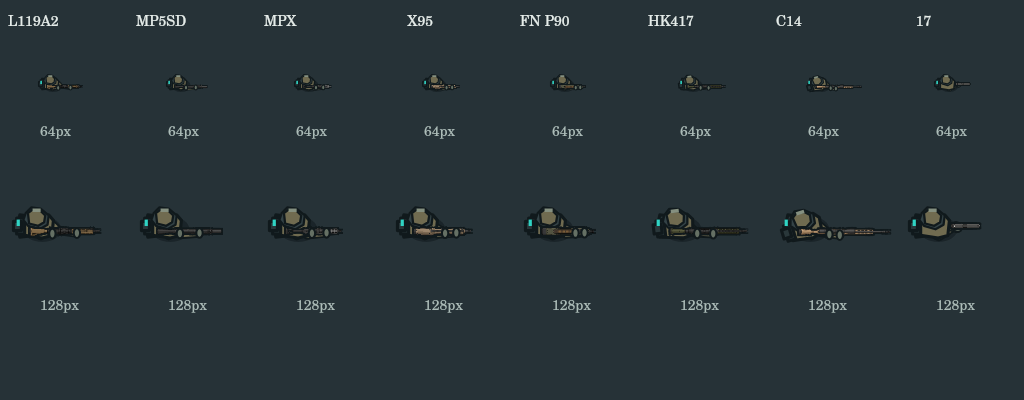
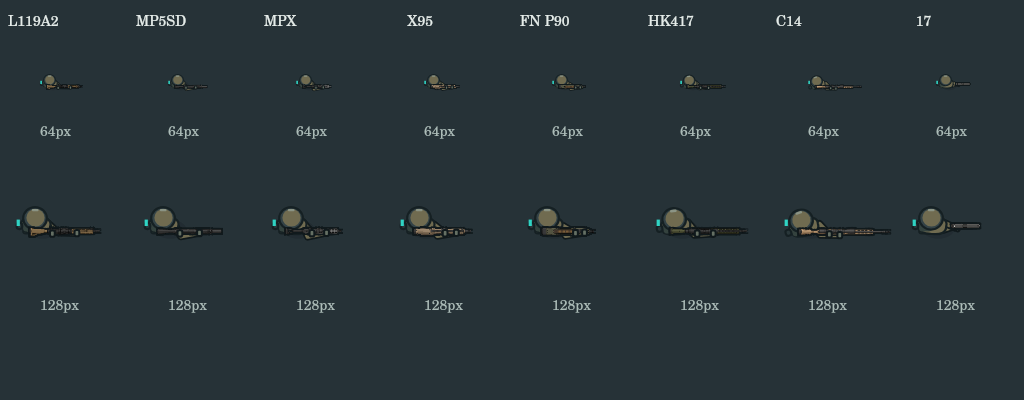
반려된 체형·포복을 재작업하고 중앙 지지 방패 자세 설계

diff --git a/artifacts/draft-order-player-generator/src/components/modularOperator.ts b/artifacts/draft-order-player-generator/src/components/modularOperator.ts
@@ -86,24 +86,15 @@ export function weaponMountPose(name:string):WeaponMountPose {
   const support=kind==='bolt'?mix(magazine,rawSupport,.22):kind==='marksman'?mix(magazine,rawSupport,.55):kind==='pistol'?{x:trigger.x-1,y:trigger.y-1.5}:rawSupport;
   return {kind,stock,triggerHand:trigger,supportHand:support,magazine,muzzle,
     torsoYaw,shoulderPocket,
-    triggerShoulder:rotate({x:-1,y:6}),supportShoulder:rotate({x:1,y:-5.5}),cheek:{x:stock.x+5,y:stock.y-3.5}};
+    triggerShoulder:rotate({x:-1,y:4.5}),supportShoulder:rotate({x:1,y:-4.2}),cheek:{x:stock.x+5,y:stock.y-3.5}};
 }
 
-/** 포복/방패의 표시용 장착. 일반 승인 견착은 원래 좌표 그대로 반환합니다. */
+/** 포복/방패의 표시용 장착. 총기 장착 기준은 유지하고 몸의 투영과 분리합니다. */
 export function equipmentMountPose(unit:RealtimeUnitState):WeaponMountPose {
   const mount=weaponMountPose(unit.weaponName??'');
-  if(unit.locomotion==='crawl'&&!unit.downed&&unit.alive){
-    const yaw=mount.torsoYaw-.18;
-    const project=(p:Point):Point=>{
-      const a=mount.torsoYaw,x=(p.x*Math.cos(a)+p.y*Math.sin(a))*1.15,y=(-p.x*Math.sin(a)+p.y*Math.cos(a))*.72;
-      return {x:x*Math.cos(yaw)-y*Math.sin(yaw),y:x*Math.sin(yaw)+y*Math.cos(yaw)};
-    };
-    const stock=mount.kind==='pistol'?{x:10,y:0}:project(mount.stock);
-    const shift=(p:Point):Point=>({x:p.x+stock.x-mount.stock.x,y:p.y+stock.y-mount.stock.y});
-    return {...mount,torsoYaw:yaw,stock,shoulderPocket:project(mount.shoulderPocket),triggerShoulder:project(mount.triggerShoulder),supportShoulder:project(mount.supportShoulder),triggerHand:shift(mount.triggerHand),supportHand:shift(mount.supportHand),magazine:shift(mount.magazine),muzzle:shift(mount.muzzle)};
-  }
+  if(unit.locomotion==='crawl')return mount;
   if(unit.shieldRaised){
-    const shift=(p:Point):Point=>({x:p.x,y:p.y+6});
+    const shift=(p:Point):Point=>({x:p.x,y:p.y+(mount.kind==='pistol'?12:9)});
     return {...mount,stock:shift(mount.stock),muzzle:shift(mount.muzzle),triggerHand:shift(mount.triggerHand),magazine:shift(mount.magazine),supportHand:{...HANDHELD_SHIELD.hand}};
   }
   return mount;
@@ -185,51 +176,56 @@ export function throwArmPose(progress:number):{elbow:Point;hand:Point}{
 }
 
 function strokeArm(ctx:CanvasRenderingContext2D,pose:ArmPose,color:string):void {
-  ctx.lineCap='round';ctx.lineJoin='round';ctx.strokeStyle='#10191C';ctx.lineWidth=4.8;
+  // 어깨 끝의 둥근 선 마감이 몸 밖에 원처럼 드러나지 않게 소매 안에서 끊습니다.
+  ctx.lineCap='butt';ctx.lineJoin='round';ctx.strokeStyle='#10191C';ctx.lineWidth=4.8;
   ctx.beginPath();ctx.moveTo(pose.shoulder.x,pose.shoulder.y);ctx.lineTo(pose.elbow.x,pose.elbow.y);ctx.lineTo(pose.hand.x,pose.hand.y);ctx.stroke();
   ctx.strokeStyle=color;ctx.lineWidth=2.6;ctx.stroke();
 }
 function hand(ctx:CanvasRenderingContext2D,point:Point,angle:number):void {
-  ctx.save();ctx.translate(point.x,point.y);ctx.rotate(angle);ctx.fillStyle='#657064';ctx.strokeStyle='#10191C';ctx.lineWidth=1.3;ctx.beginPath();ctx.ellipse(0,0,3,2,0,0,Math.PI*2);ctx.fill();ctx.stroke();ctx.restore();
-}
-function polygon(ctx:CanvasRenderingContext2D,points:number[][],fill:string):void {
-  ctx.fillStyle=fill;ctx.beginPath();points.forEach(([x,y],index)=>index?ctx.lineTo(x,y):ctx.moveTo(x,y));ctx.closePath();ctx.fill();ctx.stroke();
+  ctx.save();ctx.translate(point.x,point.y);ctx.rotate(angle);ctx.fillStyle='#657064';ctx.strokeStyle='#10191C';ctx.lineWidth=1.3;ctx.beginPath();ctx.roundRect(-2,-1.5,4,3,1.1);ctx.fill();ctx.stroke();ctx.restore();
 }
 
 function paintLowerBody(ctx:CanvasRenderingContext2D,pose:OperatorAssemblyPose,time:number,reducedMotion:boolean,color:string,frame?:OperatorAnimationFrame):void {
-  const relative=normalize((frame?.lowerFacing??pose.lowerFacing)-pose.upperFacing),step=reducedMotion||pose.prone?0:frame?.step??(pose.moving?Math.sin(time*(pose.crouched?8:12))*1.4:0);
+  const relative=normalize((frame?.lowerFacing??pose.lowerFacing)-pose.upperFacing);
+  const step=reducedMotion||pose.prone?0:frame?.step??(pose.moving?Math.sin(time*10)*1.4:0);
   const crouch=frame?.crouchAmount??Number(pose.crouched);
-  ctx.save();
-  // 회전 중에도 아래로 내려간 다리의 투영이 헬멧 뒤로 솟지 않게 몸 아래 가림 범위를 유지합니다.
-  // 승인된 서기·앉기와 보행 진폭은 이 범위 안에 모두 들어갑니다. 포복은 별도입니다.
-  if(!pose.prone){ctx.beginPath();ctx.rect(-17.5,-8.5,28,17);ctx.clip();}
-  ctx.rotate(relative);if(!pose.prone)ctx.scale(1,.78);ctx.strokeStyle='#10191C';ctx.lineWidth=2;ctx.lineJoin='round';
-  // 서기/앉기에서는 다리가 골반 아래로 내려가므로 탑뷰에 짧게만 투영됩니다.
-  // 포복의 뒤로 뻗은 다리를 서 있는 자세에 재사용하지 않습니다.
-  for(const side of [-1,1]){const rear=pose.prone?-29:-10+3*crouch+side*step;
-    const thigh=pose.prone?10:0;
-    polygon(ctx,[[rear-5,side*2.5],[rear+7+thigh,side*2.5],[rear+8+thigh,side*5.5],[rear-4,side*7]],side<0?'#29373A':color);}
+  ctx.save();ctx.rotate(relative);ctx.lineCap='round';ctx.lineJoin='round';
+  for(const side of [-1,1]){
+    if(pose.prone){
+      // 골반→굽힌 무릎→발목으로 이어지는 분절입니다. 납작한 서기 몸을 늘이지 않습니다.
+      const knee={x:side<0?-21:-19,y:side<0?-5:6.5},ankle={x:side<0?-28:-26,y:side*4.5};
+      ctx.beginPath();ctx.moveTo(-11,side*3);ctx.quadraticCurveTo(knee.x+3,knee.y,knee.x,knee.y);ctx.lineTo(ankle.x,ankle.y);
+      ctx.strokeStyle='#152023';ctx.lineWidth=5.4;ctx.stroke();ctx.strokeStyle=color;ctx.lineWidth=3.5;ctx.stroke();
+      ctx.fillStyle='#263437';ctx.strokeStyle='#152023';ctx.lineWidth=1.2;ctx.beginPath();ctx.roundRect(ankle.x-4,ankle.y-1.8,5.5,3.6,1.5);ctx.fill();ctx.stroke();
+    }else{
+      const rear=-10+3*crouch+side*step;
+      ctx.fillStyle=side<0?'#29373A':color;ctx.strokeStyle='#152023';ctx.lineWidth=1.2;
+      ctx.beginPath();ctx.roundRect(rear-2,side*3-1.7,7,3.4,1.5);ctx.fill();ctx.stroke();
+    }
+  }
   ctx.restore();
 }
 
 function paintTorso(ctx:CanvasRenderingContext2D,color:string):void {
-  ctx.strokeStyle='#10191C';ctx.lineWidth=2;ctx.lineJoin='round';
-  // 사용자 체형 피드백: 흉곽 폭을 15→10.4로 줄이고 복부·허리를 안쪽으로 모읍니다.
-  polygon(ctx,[[-12,-3.6],[-6,-5.2],[3,-4.8],[5,-2.5],[4,4.2],[0,5.2],[-12,3.8],[-14,1.4]],color);
-  ctx.fillStyle='#29373A';ctx.fillRect(-14,-3.5,3,7);ctx.strokeRect(-14,-3.5,3,7);
+  ctx.strokeStyle='#152023';ctx.lineWidth=1.4;ctx.fillStyle=color;
+  ctx.beginPath();ctx.moveTo(-13,-2.5);ctx.bezierCurveTo(-12,-5,-7,-5.5,-3,-5.5);
+  ctx.bezierCurveTo(3,-5.5,6,-3.5,5,0);ctx.bezierCurveTo(5,4.7,1,5.5,-4,5);
+  ctx.bezierCurveTo(-9,4.8,-13,4,-13,-2.5);ctx.closePath();ctx.fill();ctx.stroke();
+  ctx.fillStyle='#34423E';ctx.beginPath();ctx.roundRect(-12,-3.5,8,7,2.2);ctx.fill();
 }
 
 function paintHeadAndKit(ctx:CanvasRenderingContext2D,color:string,pack:number,tool:string):void {
-  ctx.strokeStyle='#10191C';ctx.lineWidth=2;ctx.lineJoin='round';
-  ctx.fillStyle='#29373A';ctx.fillRect(-17,-pack*.24,3,pack*.48);ctx.strokeRect(-17,-pack*.24,3,pack*.48);
-  ctx.save();ctx.translate(-1,-3);ctx.scale(.72,.72);
-  polygon(ctx,[[-13,-7],[-8,-12],[0,-11],[7,-5],[6,3],[-1,7],[-11,4],[-15,-1]],'#334246');
-  polygon(ctx,[[-11,-7],[-7,-10],[0,-9],[4,-5],[3,1],[-2,4],[-10,2]],color);
-  ctx.fillStyle='#859080';ctx.fillRect(-7,-11,7,3);ctx.restore();
-  if(tool==='battery'||tool==='interceptor'||tool==='charge'||tool==='plate'){
-    ctx.fillStyle=color;ctx.fillRect(-13,4,7,2.3);ctx.strokeRect(-13,4,7,2.3);
-  } else if(tool==='coil'||tool==='roll'){
-    ctx.fillStyle='#859080';ctx.beginPath();ctx.arc(-10,4.8,1.6,0,Math.PI*2);ctx.fill();ctx.stroke();
+  ctx.strokeStyle='#152023';ctx.lineWidth=1.4;ctx.fillStyle='#29373A';
+  ctx.beginPath();ctx.roundRect(-16,-pack*.21,3.5,pack*.42,1.5);ctx.fill();ctx.stroke();
+  // 헬멧은 각진 다각형 대신 완만한 외곽과 얕은 테두리로 볼륨을 읽게 합니다.
+  ctx.save();ctx.translate(-4.5,-4.8);ctx.fillStyle='#334246';
+  ctx.beginPath();ctx.ellipse(0,0,7.4,7,0,0,Math.PI*2);ctx.fill();ctx.stroke();
+  ctx.fillStyle=color;ctx.beginPath();ctx.ellipse(.3,-.4,5.7,5.5,0,0,Math.PI*2);ctx.fill();
+  ctx.fillStyle='#8B9485';ctx.beginPath();ctx.roundRect(-2,-5.9,4.2,1.5,.7);ctx.fill();ctx.restore();
+  if(['battery','interceptor','charge','plate'].includes(tool)){
+    ctx.fillStyle=color;ctx.beginPath();ctx.roundRect(-12,3.5,6,2.4,1);ctx.fill();ctx.stroke();
+  }else if(tool==='coil'||tool==='roll'){
+    ctx.fillStyle='#859080';ctx.beginPath();ctx.roundRect(-11,3.7,3.2,2,1);ctx.fill();ctx.stroke();
   }
 }
 
@@ -246,10 +242,10 @@ export function paintModularOperator(ctx:CanvasRenderingContext2D,unit:RealtimeU
   const kick=down?0:recoilOffset(time,shotAt,reducedMotion);
 
   ctx.save();ctx.globalAlpha=unit.alive?1:.4;
-  ctx.fillStyle='#04090C55';ctx.beginPath();ctx.ellipse(unit.position.x,unit.position.y+2,12,8,0,0,Math.PI*2);ctx.fill();
+  ctx.fillStyle='#04090C22';ctx.beginPath();ctx.ellipse(unit.position.x,unit.position.y+2,10,6,0,0,Math.PI*2);ctx.fill();
   ctx.translate(unit.position.x,unit.position.y);ctx.rotate(pose.upperFacing);
   paintLowerBody(ctx,pose,time,reducedMotion,kit.color,motion.frame);
-  if(down){ctx.save();ctx.rotate(-.18);ctx.scale(1.15,.72);paintTorso(ctx,kit.color);paintHeadAndKit(ctx,kit.color,kit.pack,kit.tool);ctx.restore();ctx.restore();return true;}
+  if(down){ctx.save();paintTorso(ctx,kit.color);paintHeadAndKit(ctx,kit.color,kit.pack,kit.tool);ctx.restore();ctx.restore();return true;}
   const mount=pose.weapon!;
   const throwProgress=reducedMotion?.6:Math.min(1,throwAge/.45);
   const gunStowed=installing||throwing,lower=installing?1:throwing?1-throwProgress:0;
@@ -261,12 +257,12 @@ export function paintModularOperator(ctx:CanvasRenderingContext2D,unit:RealtimeU
   if(installing){triggerTarget={x:8,y:5};supportTarget={x:9,y:-5};}
   const triggerArm=solveArm(mount.triggerShoulder,triggerTarget,8,9,-1);
   // 방패 팔은 과도한 옆꺾임 없이 짧게 투영된 위팔·아래팔로 손잡이에 닿습니다.
-  let supportArm=solveArm(mount.supportShoulder,supportTarget,shielding?8:12,shielding?10:12,1);
+  let supportArm=solveArm(mount.supportShoulder,supportTarget,shielding?8:mount.kind==='pistol'?7+5*reach:12,shielding?10:mount.kind==='pistol'?8+4*reach:12,1);
   if(throwing){const thrownPose=throwArmPose(throwProgress);supportArm={shoulder:mount.supportShoulder,elbow:thrownPose.elbow,hand:thrownPose.hand};}
   strokeArm(ctx,supportArm,kit.color);strokeArm(ctx,triggerArm,kit.color);
   // 탑뷰에서 아래로 내려간 위팔은 흉곽/어깨 아래에 가립니다.
   // 손 접촉이 맞아도 팔 뿌리를 헬멧 위에 그리면 고리 모양의 기형이 됩니다.
-  ctx.save();ctx.rotate(mount.torsoYaw);if(pose.prone)ctx.scale(1.15,.72);paintTorso(ctx,kit.color);paintHeadAndKit(ctx,kit.color,kit.pack,kit.tool);ctx.restore();
+  ctx.save();ctx.rotate(mount.torsoYaw);paintTorso(ctx,kit.color);paintHeadAndKit(ctx,kit.color,kit.pack,kit.tool);ctx.restore();
 
   const pistolHands=mount.kind==='pistol'&&!gunStowed;
   const wristAngle=(arm:ArmPose)=>Math.atan2(arm.hand.y-arm.elbow.y,arm.hand.x-arm.elbow.x);

diff --git a/artifacts/draft-order-player-generator/src/components/shieldParts.ts b/artifacts/draft-order-player-generator/src/components/shieldParts.ts
@@ -1,7 +1,7 @@
 import type { WeaponAssetLoader } from './weaponParts';
 
 /** 장비 표시 좌표만 정의합니다. 방어 범위·충돌 판정과 무관합니다. */
-export const HANDHELD_SHIELD={file:'effects/handheld-shield-v2.png',grip:{x:41,y:348},span:1145,height:36,hand:{x:10,y:-20}} as const;
+export const HANDHELD_SHIELD={file:'effects/handheld-shield-v3.png',grip:{x:72,y:307},span:600,height:24,hand:{x:9,y:-3}} as const;
 
 export function paintHandheldShield(ctx:CanvasRenderingContext2D,asset:WeaponAssetLoader):boolean {
   const part=HANDHELD_SHIELD,image=asset(part.file);

diff --git a/docs/operator-equipment-current.md b/docs/operator-equipment-current.md
@@ -1,3 +1,11 @@
+> **최신: 원형 돌출·포복·방패·각진 체형 재작업.** 사용자가 기존 체형과 포복, 방패 자세를 반려하고 재설계를 요청했다. 이번 변경은 단순 축소가 아니다. 어깨 끝의 둥근 선 마감을 없애고 어깨를 흉곽 안으로 이동했다. 권총 지지팔은 7/8 투영으로 몸 가까이 접으며 장전 때 12/12까지 부드럽게 펼친다. 헬멧·몸통·장비를 완만한 곡선으로 바꿨다. 포복의 1.15×0.72 비등비 압축을 제거하고 골반→굽힌 무릎→군화 분절을 별도로 그린다.
+>
+> 방패 v3는 중앙 뒤쪽 손잡이와 완만한 직선 상단으로 새로 생성했다. 표시 손잡이 `(9,-3)`, 폭 24로 가슴 앞에 두고 권총은 오른쪽으로 내민다. 이전 머리 옆으로 들어 올린 자세와 곡선 방패 v2는 활성 경로에서 제외한다. REUSS의 보조무장 강제 옵션·탄약·발사 지연·히트박스·방어 판정은 그대로다.
+>
+> 참고: [블리츠 공식 장비](https://www.ubisoft.com/en-us/game/rainbow-six/siege/game-info/operators/blitz), [직접 확인한 Ubisoft 방패 프로모션 이미지](https://www.ubisoft.com/en-ca/game/rainbow-six/siege/news-updates/2GOENRO3EQMmyWNz4TIZoU/blitz-shield-bundle). 공식 이미지에서 읽은 몸 앞 차폐·권총 배치를 원본 REUSS 탑뷰로 재구성했다. [몽타뉴의 확장 방패 소개(2015)](https://www.ubisoft.com/en-au/game/rainbow-six/siege/news-updates/4AL3CSY6FFiSqNeKP9QqAQ/operator-spotlight-9-montagne-french-unit)는 별도 운용이라는 점만 참고했고 현행 시즈 규칙 전체를 복제했다고 주장하지 않는다.
+>
+> 검증: 새 방패 RGBA 및 보존 원본 재생성 바이트 동일. 총기 표시 명령 24개 유지, 2,560방향·100개 장전 팔 길이·320개 포복/방패 접점·20무기 160방향 검사 통과. 타입·빌드 통과(기존 청크 경고 유지). 새 머리/손 모양은 사용자 재설계 요청 대상이므로 과거 머리·손 픽셀 동일 검사 대신 새 접점 검사를 적용한다. 실제 브라우저는 실행하지 않았다. [수정 전후](../validation/operator-shape-rework.png). 원화와 자세의 새 사용자 승인은 아직 받지 않았다. 다음은 이 시안 검수 후 동작 연결이다.
+
 > **체형 축소 후속:** 몸통 상하 폭 15→10.4(약 31% 축소), 등 군장 폭 25% 축소, 측면 장비·허리와 비포복 하체 투영을 축소했다. 팔 외곽선 6→4.8, 내부 3.6→2.6이며 관절 길이·접점은 유지한다. 머리·무기 등비와 성능/히트박스는 변경하지 않았다. 24개 승인 머리·총기·손 그리기 명령 동일, 2,560방향·100팔 접점·320장비 자세·타입 검사 통과. 사용자 요청으로 몸통이 변경되어 전체 픽셀 동일 검사는 보존 파츠 검사로 대체했으며 새 체형 승인으로 주장하지 않는다. [전후 검수표](../validation/operator-body-before-after.png).
 
 > **사용자 피드백 후속:** 권총 슬라이드 위 손, 방패 손목 꺾임, 보조무장 강제 옵션 누락을 수정했다. 아래 최초 제작 기록의 무기 선택 미구현 항목은 이 후속으로 대체한다.

diff --git a/docs/PROJECT_STATE.md b/docs/PROJECT_STATE.md
@@ -1,3 +1,5 @@
+> **최신 재설계:** 원형 어깨 돌출 제거, 곡선형 헬멧/흉곽, 압축 없는 분절 포복, Ubisoft 방패 자료를 참고한 중앙 손잡이 방패 v3·가슴 앞 지지/오른쪽 권총 자세. [인수인계](operator-equipment-current.md), [전후 비교](../validation/operator-shape-rework.png). 새 시안 승인 전. 성능/히트박스·보조무장 강제 정책 유지, 브라우저 미실행.
+
 > **최신 체형 피드백:** 사용자의 몸통 비만감 지적에 따라 몸통 폭 약 31%, 군장 폭 25%와 팔 두께를 줄였다. 머리·총기·파지 유지. [전후 비교](../validation/operator-body-before-after.png). 새 체형 사용자 확인 전, 브라우저 미실행. 아래는 이전 기록이다.
 
 > **파지 피드백·방패 보조무장 옵션:** 권총 손을 원화 아래로, 방패 손목을 아래팔 방향으로 보완했다. REUSS 준비 옵션 `shieldRequiresSecondary`(기본 켜짐)과 실제 USP 전환·슬롯별 탄약 보존·교체 발사 차단을 연결했다. [인수인계와 검증](operator-equipment-current.md). 브라우저 미실행.

diff --git a/docs/ART_APPROVED.md b/docs/ART_APPROVED.md
@@ -1,3 +1,5 @@
+> **최신 사용자 재설계 요청:** 몸 아래 원형 돌출, 포복, 방패, 각지고 눌린 체형을 반려했다. 머리·몸통·손 실루엣과 포복·방패 자세를 재작업했다. 아래 기존 외형 승인을 새 시안 승인으로 확대하지 않는다. 총기 원화·외형/판정 분리·브라우저 금지는 유지한다. [새 전후 비교](../validation/operator-shape-rework.png) · [변경 근거](operator-equipment-current.md).
+
 > **후속 체형 수정 요청:** 사용자가 “캐릭터 몸이 아직도 너무 뚱뚱”하다고 피드백해 몸통·군장·팔 두께를 축소했다. 기존 승인 중 머리·총기 크기·파지·C14 자세와 외형/성능 분리 계약은 유지한다. 새 체형은 사용자 확인 전이며 기존 전체 외형 승인으로 자동 승인하지 않는다. [전후 비교](../validation/operator-body-before-after.png).
 
 # 오퍼레이터 아트 확정 · 다음 작업 인수인계
